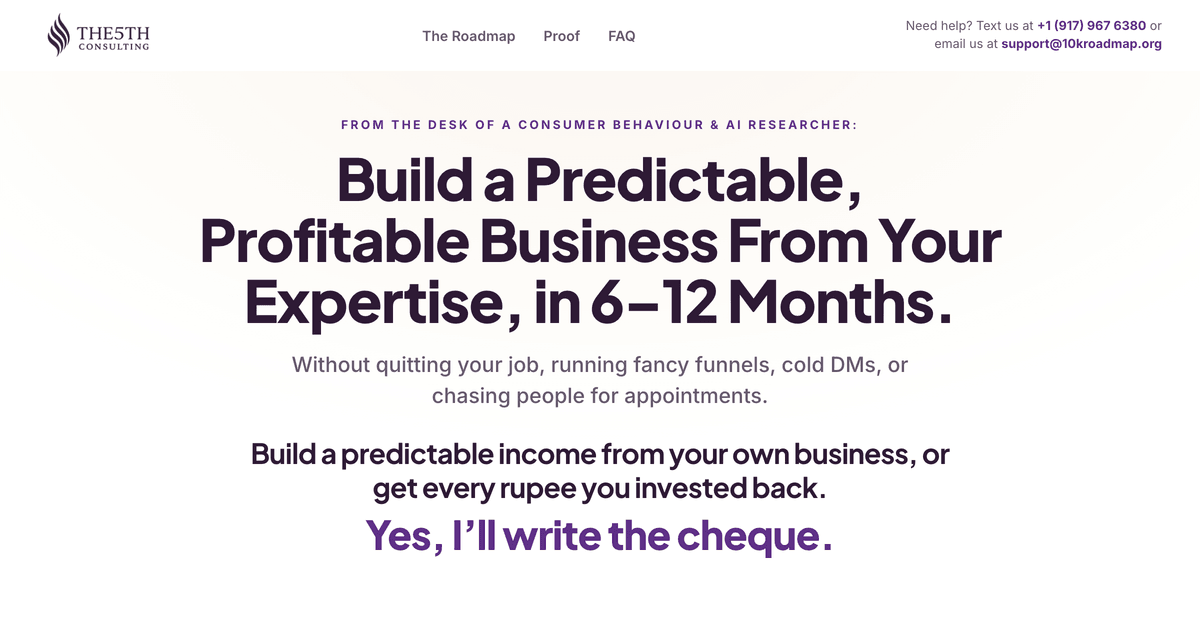
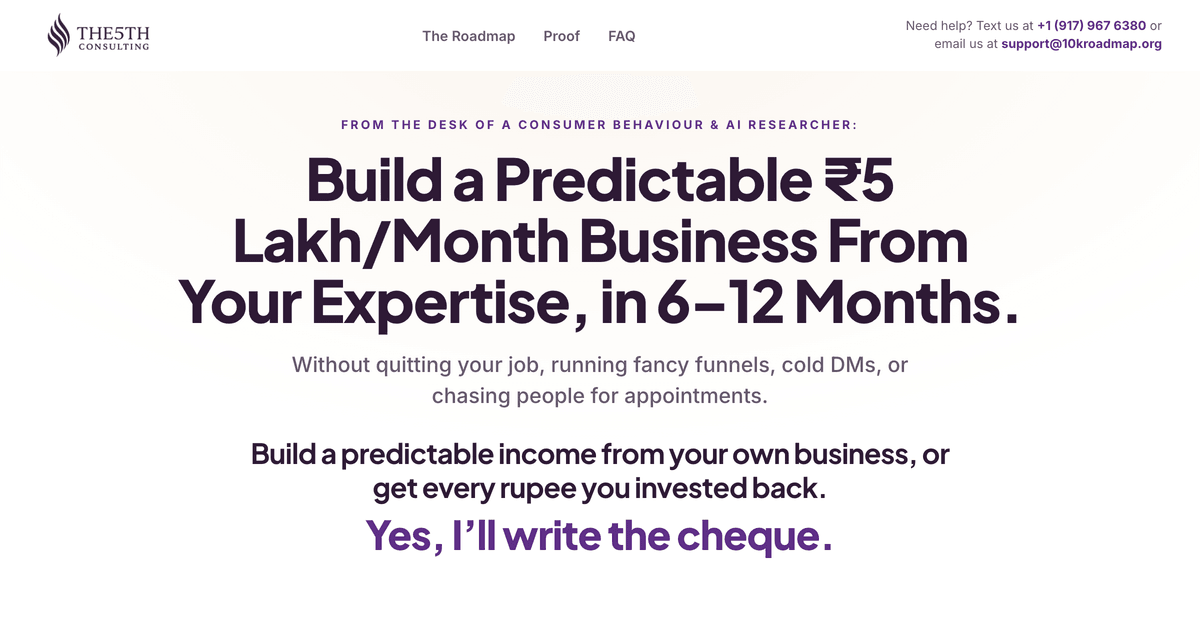
10k-roadmap/india: put ₹5 Lakh/Month in the headline
Make the target concrete — "Build a Predictable ₹5 Lakh/Month Business From
Your Expertise, in 6–12 Months" (₹1 lakh/month stays the qualification floor).
Regenerate the hero OG screenshot to match.

Changed region(s): [[0.1542, 0.2413, 0.8633, 0.5429]]

diff --git a/app/10k-roadmap/india/config.ts b/app/10k-roadmap/india/config.ts
@@ -42,7 +42,7 @@ export const RATING = { score: '4.8', text: 'from the founders and professionals
 /* ── Landing copy (INR, India) ─────────────────────────────────────────────*/
 export const LANDING = {
   eyebrow: 'From the desk of a Consumer Behaviour & AI Researcher:',
-  headline: 'Build a Predictable, Profitable Business From Your Expertise, in 6–12 Months.',
+  headline: 'Build a Predictable ₹5 Lakh/Month Business From Your Expertise, in 6–12 Months.',
   headlineSub: 'Without quitting your job, running fancy funnels, cold DMs, or chasing people for appointments.',
   guaranteeLine: 'Build a predictable income from your own business, or get every rupee you invested back. ',
   guaranteeEmphasis: 'Yes, I’ll write the cheque.',
